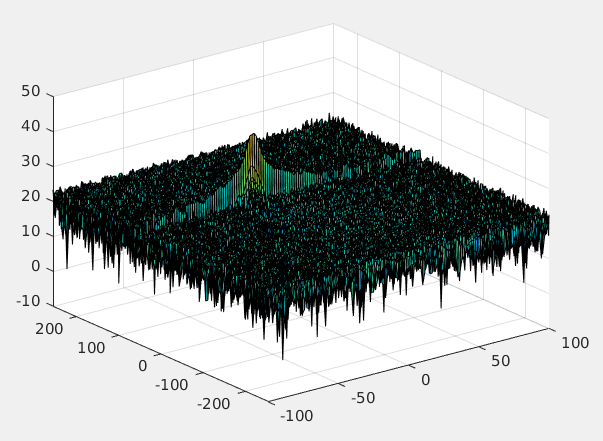
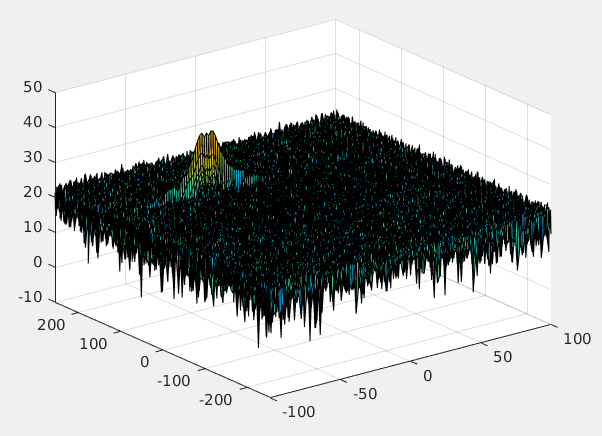
fix beat signal generation

diff --git a/RadarDetection/Radar_Target_Generation_and_Detection.m b/RadarDetection/Radar_Target_Generation_and_Detection.m
@@ -38,6 +38,8 @@ B = c / (2*rangeRes);
 Tchirp = 5.5 * 2 * maxR / c;
 slope = B/Tchirp;
 
+disp(slope);
+
                                                           
 %The number of chirps in one sequence. Its ideal to have 2^ value for the ease of running the FFT
 %for Doppler Estimation. 
@@ -68,7 +70,7 @@ td=zeros(1,length(t));
 for i=1:length(t)         
     
     % signal time delay due to travel time
-    tau = (R + v * t(i)) / c;
+    tau = 2 * (R + v * t(i)) / c;
     
     % *%TODO* :
     %For each time sample we need update the transmitted and
@@ -113,8 +115,7 @@ subplot(2,1,1)
 
  % *%TODO* :
  % plot FFT output 
-f = Nr / length( fft_signal_cut ) * ( 0 : (Nr/2 - 1) );
-plot(f, fft_signal_cut);
+plot( (0 : Nr/2 - 1), fft_signal_cut);
  
 axis ([0 200 0 0.5]);
 
